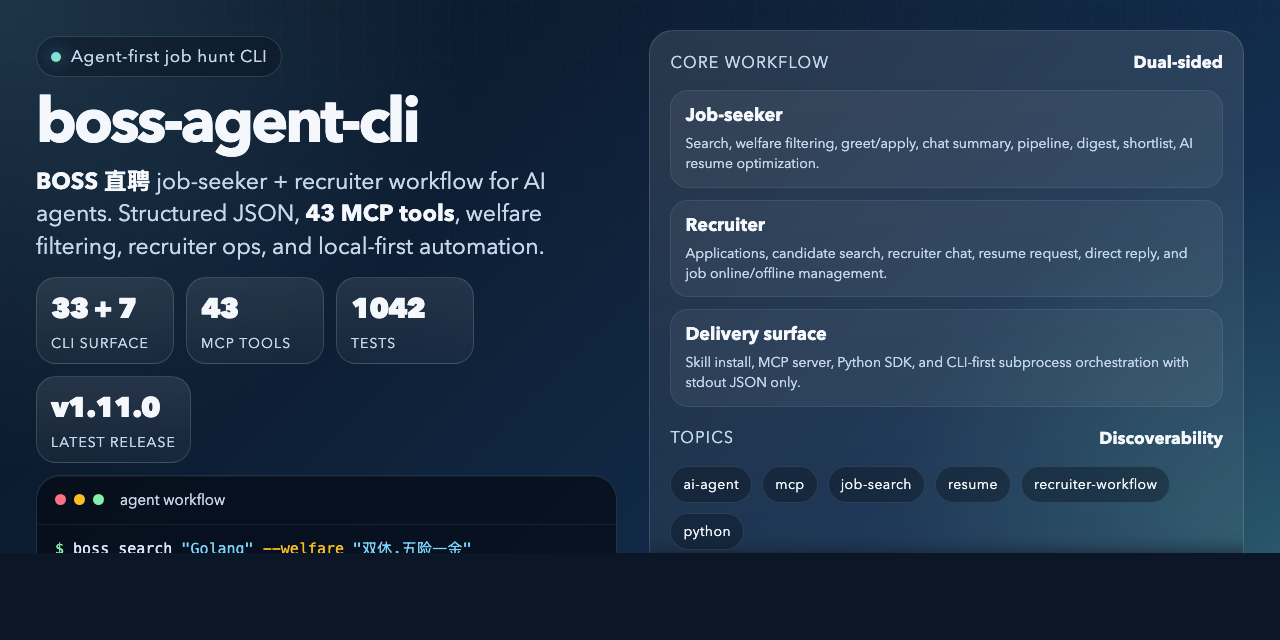
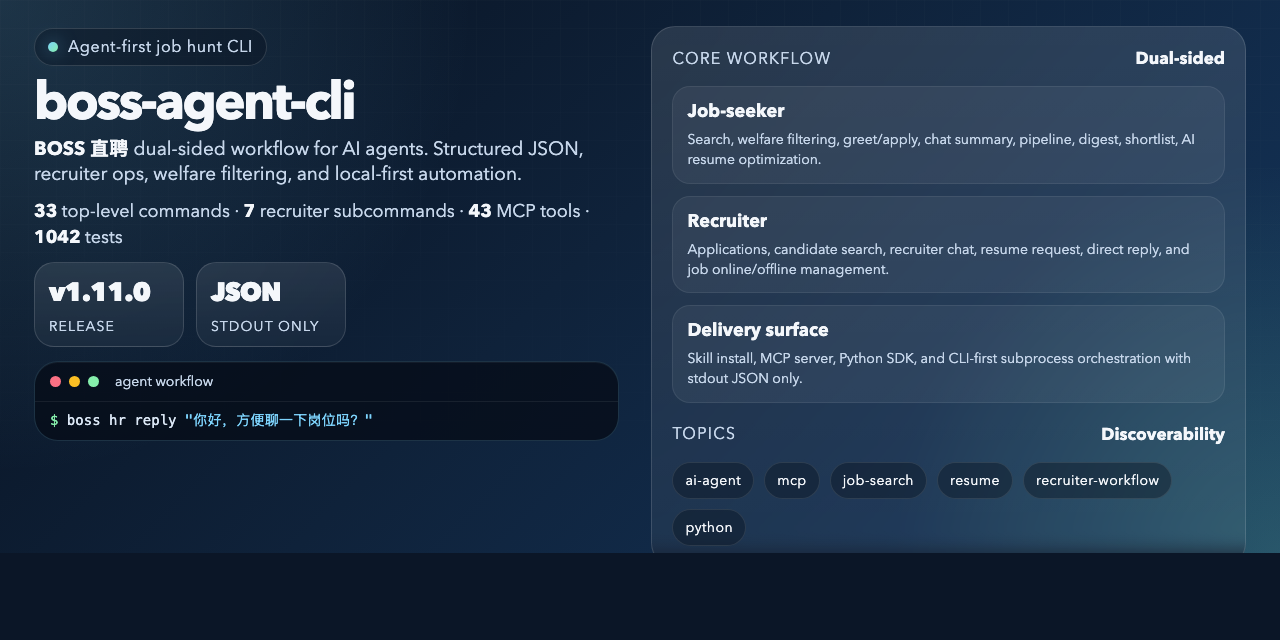
fix: 调整社交预览图安全区域

diff --git a/docs/assets/social-preview.html b/docs/assets/social-preview.html
@@ -35,7 +35,7 @@
 
     body {
       position: relative;
-      padding: 30px 36px 26px;
+      padding: 26px 34px 22px;
     }
 
     .backdrop {
@@ -73,19 +73,19 @@
       display: flex;
       flex-direction: column;
       justify-content: flex-start;
-      padding: 6px 6px 2px 0;
+      padding: 2px 6px 18px 0;
     }
 
     .eyebrow {
       display: inline-flex;
       align-items: center;
       gap: 10px;
-      padding: 8px 14px;
+      padding: 7px 13px;
       border: 1px solid var(--line);
       border-radius: 999px;
       background: rgba(8, 17, 31, 0.42);
       color: var(--muted);
-      font-size: 17px;
+      font-size: 16px;
       letter-spacing: 0.04em;
       width: fit-content;
     }
@@ -99,8 +99,8 @@
     }
 
     h1 {
-      margin: 14px 0 12px;
-      font-size: 62px;
+      margin: 10px 0 8px;
+      font-size: 52px;
       line-height: 1.02;
       letter-spacing: -0.045em;
       max-width: 700px;
@@ -109,9 +109,9 @@
     .lede {
       margin: 0;
       color: var(--muted);
-      font-size: 23px;
-      line-height: 1.4;
-      max-width: 720px;
+      font-size: 19px;
+      line-height: 1.32;
+      max-width: 650px;
     }
 
     .lede strong {
@@ -119,15 +119,27 @@
       font-weight: 700;
     }
 
+    .summary-line {
+      margin-top: 12px;
+      color: var(--muted);
+      font-size: 18px;
+      line-height: 1.42;
+      max-width: 650px;
+    }
+
+    .summary-line strong {
+      color: var(--text);
+    }
+
     .metric-row {
       display: flex;
       gap: 12px;
       flex-wrap: wrap;
-      margin-top: 14px;
+      margin-top: 12px;
     }
 
     .metric {
-      min-width: 138px;
+      min-width: 150px;
       padding: 12px 14px 10px;
       border-radius: 20px;
       border: 1px solid var(--line);
@@ -136,7 +148,7 @@
     }
 
     .metric .value {
-      font-size: 28px;
+      font-size: 26px;
       font-weight: 800;
       letter-spacing: -0.04em;
     }
@@ -150,24 +162,24 @@
     }
 
     .terminal {
-      margin-top: 12px;
+      margin-top: 14px;
       border-radius: 24px;
       border: 1px solid rgba(125, 211, 252, 0.18);
       background: rgba(5, 12, 23, 0.78);
       box-shadow: inset 0 1px 0 rgba(255, 255, 255, 0.05);
       overflow: hidden;
       max-width: 740px;
-      max-height: 118px;
+      max-height: 84px;
     }
 
     .terminal-top {
       display: flex;
       align-items: center;
       gap: 8px;
-      padding: 14px 18px;
+      padding: 10px 15px;
       border-bottom: 1px solid rgba(255, 255, 255, 0.07);
       color: var(--muted);
-      font-size: 15px;
+      font-size: 14px;
     }
 
     .window-dot {
@@ -181,10 +193,10 @@
     .w-green { background: #86efac; }
 
     .code {
-      padding: 14px 18px 16px;
+      padding: 10px 15px 11px;
       font-family: "IBM Plex Mono", "SFMono-Regular", "Menlo", monospace;
-      font-size: 15px;
-      line-height: 1.35;
+      font-size: 14px;
+      line-height: 1.2;
       color: #dce8f6;
       white-space: pre-wrap;
     }
@@ -315,26 +327,23 @@
         </div>
         <h1>boss-agent-cli</h1>
         <p class="lede">
-          <strong>BOSS 直聘</strong> job-seeker + recruiter workflow for AI agents.
-          Structured JSON, <strong>43 MCP tools</strong>, welfare filtering,
-          recruiter ops, and local-first automation.
+          <strong>BOSS 直聘</strong> dual-sided workflow for AI agents.
+          Structured JSON, recruiter ops, welfare filtering, and local-first automation.
         </p>
+        <div class="summary-line">
+          <strong>33</strong> top-level commands ·
+          <strong>7</strong> recruiter subcommands ·
+          <strong>43</strong> MCP tools ·
+          <strong>1042</strong> tests
+        </div>
         <div class="metric-row">
           <div class="metric">
-            <div class="value">33 + 7</div>
-            <div class="label">CLI surface</div>
-          </div>
-          <div class="metric">
-            <div class="value">43</div>
-            <div class="label">MCP tools</div>
-          </div>
-          <div class="metric">
-            <div class="value">1042</div>
-            <div class="label">Tests</div>
-          </div>
-          <div class="metric">
             <div class="value">v1.11.0</div>
-            <div class="label">Latest release</div>
+            <div class="label">Release</div>
+          </div>
+          <div class="metric">
+            <div class="value">JSON</div>
+            <div class="label">stdout only</div>
           </div>
         </div>
       </div>
@@ -346,8 +355,7 @@
           <span class="window-dot w-green"></span>
           <span style="margin-left:8px;">agent workflow</span>
         </div>
-        <div class="code"><span class="prompt">$</span> boss search <span class="accent">"Golang"</span> <span class="flag">--welfare</span> <span class="accent">"双休,五险一金"</span>
-<span class="prompt">$</span> boss hr reply <span class="accent">"你好，方便聊一下岗位吗？"</span></div>
+        <div class="code"><span class="prompt">$</span> boss hr reply <span class="accent">"你好，方便聊一下岗位吗？"</span></div>
       </div>
     </section>
 